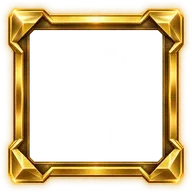
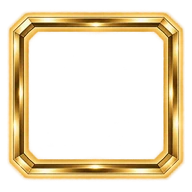
Release 0.764: ship the squared frames, and light both sides of them
0.763 published the wrong artwork. The conversion wrote an encoded WebP and
then ran that buffer back through sharp, which re-encoded it at default quality
and softened the metal and its alpha edge, so what shipped matched neither
source file. It now encodes once, straight to file.

The frames are the squared set. Their overhang is re-measured from the artwork
rather than carried over, because these trim to a different metal span:
silver 12.8%, gold 10.3%, diamond 12.5%.

The travelling highlight is now two, half a turn apart, so opposite sides of
the frame catch the light at once. It is the same single rotation, with the
band repeated in the conic gradient at minus 180 degrees, so nothing new
animates.

diff --git a/public/index.html b/public/index.html
@@ -13,26 +13,26 @@
 <meta property="og:type" content="website" />
 <meta property="og:title" content="WildStat" />
 <meta property="og:description" content="Fight monsters, collect gear, and explore new worlds in a multiplayer browser RPG." />
-<meta property="og:image" content="https://tydoskus.github.io/wildwood/assets/wildstat/wildstat-wordmark.webp?v=0.763" />
+<meta property="og:image" content="https://tydoskus.github.io/wildwood/assets/wildstat/wildstat-wordmark.webp?v=0.764" />
 <meta property="og:image:alt" content="WildStat" />
 <meta name="twitter:card" content="summary_large_image" />
-<link rel="icon" href="wildstat-favicon.ico?v=0.763" sizes="any" />
-<link rel="icon" href="assets/wildstat/wildstat-favicon-32.png?v=0.763" type="image/png" sizes="32x32" />
-<link rel="apple-touch-icon" href="assets/wildstat/wildstat-apple-touch-icon.png?v=0.763" sizes="180x180" />
-<link rel="manifest" href="manifest.webmanifest?v=0.763" />
-<script src="assets/wildstat/signin-auth-detect.js?v=0.763"></script>
-<meta data-signin-artwork content="assets/wildstat/signin/signin-progression-mobile-4k-v3.webp?v=0.763" />
-<link rel="preload" as="image" href="assets/wildstat/wildstat-wordmark.webp?v=0.763" type="image/webp" fetchpriority="high" />
+<link rel="icon" href="wildstat-favicon.ico?v=0.764" sizes="any" />
+<link rel="icon" href="assets/wildstat/wildstat-favicon-32.png?v=0.764" type="image/png" sizes="32x32" />
+<link rel="apple-touch-icon" href="assets/wildstat/wildstat-apple-touch-icon.png?v=0.764" sizes="180x180" />
+<link rel="manifest" href="manifest.webmanifest?v=0.764" />
+<script src="assets/wildstat/signin-auth-detect.js?v=0.764"></script>
+<meta data-signin-artwork content="assets/wildstat/signin/signin-progression-mobile-4k-v3.webp?v=0.764" />
+<link rel="preload" as="image" href="assets/wildstat/wildstat-wordmark.webp?v=0.764" type="image/webp" fetchpriority="high" />
 <style>
-  :root { --signin-artwork: url("signin/signin-progression-mobile-4k-v3.webp?v=0.763"); }
+  :root { --signin-artwork: url("signin/signin-progression-mobile-4k-v3.webp?v=0.764"); }
   html, body { min-height: 100vh; min-height: 100dvh; background: #000; }
   #start, #gameUpdateGate { position: fixed; top: -2px; right: 0; bottom: auto; left: 0; width: 100vw; height: calc(100vh + 30px); height: calc(100lvh + 30px); background: #000; }
 </style>
-<link rel="stylesheet" href="assets/wildstat/game.css?v=0.763" />
-<link rel="stylesheet" href="assets/wildstat/balance-editor.css?v=0.763" />
-<link rel="stylesheet" href="assets/wildstat/guild.css?v=0.763" />
+<link rel="stylesheet" href="assets/wildstat/game.css?v=0.764" />
+<link rel="stylesheet" href="assets/wildstat/balance-editor.css?v=0.764" />
+<link rel="stylesheet" href="assets/wildstat/guild.css?v=0.764" />
 <link rel="stylesheet" href="assets/wildstat/auto-farm.css" />
-<link rel="stylesheet" href="assets/wildstat/mailbox.css?v=0.763" />
+<link rel="stylesheet" href="assets/wildstat/mailbox.css?v=0.764" />
 </head>
 <body>
 <canvas id="game"></canvas>
@@ -208,7 +208,7 @@
   </button>
   <div class="minimap-meta">
     <div id="minimapPlayers" class="minimap-players">players online: 0</div>
-    <button id="minimapVersion" class="minimap-version" type="button" aria-label="Game version v0.763. Open release notes">v0.763</button>
+    <button id="minimapVersion" class="minimap-version" type="button" aria-label="Game version v0.764. Open release notes">v0.764</button>
   </div>
   <button id="enemyRespawnAdBtn" class="respawn-ad-button" type="button" aria-label="Open video reward for 2× enemy respawn speed" aria-controls="enemyRespawnAdPrompt" aria-expanded="false" aria-haspopup="dialog" hidden>
     <span class="respawn-ad-video-icon" aria-hidden="true"></span>
@@ -231,7 +231,7 @@
       <span>WORLD CHAT</span>
       <div id="topMeta">
         <div id="coopStatus">Players online: 1</div>
-        <div id="version">v0.763</div>
+        <div id="version">v0.764</div>
       </div>
       <button id="chatSizeToggle" class="chat-size-toggle" type="button" aria-label="Expand chat" aria-expanded="false"><span class="chat-size-icon" aria-hidden="true"></span></button>
     </div>
@@ -268,7 +268,7 @@
   <div id="connectionPanel" class="modal connection-modal" role="status" aria-live="polite" hidden>
     <h1 class="wildstat-wordmark-title" aria-label="WildStat">
       <span class="wildstat-wordmark-frame" aria-hidden="true">
-        <img src="assets/wildstat/wildstat-wordmark.webp?v=0.763" width="2046" height="682" alt="" fetchpriority="high" decoding="sync" />
+        <img src="assets/wildstat/wildstat-wordmark.webp?v=0.764" width="2046" height="682" alt="" fetchpriority="high" decoding="sync" />
       </span>
     </h1>
     <div class="loading-content">
@@ -285,7 +285,7 @@
   <div id="accountChoicePanel" class="modal account-choice-modal" role="dialog" aria-modal="true" aria-labelledby="accountChoiceTitle">
     <h1 id="accountChoiceTitle" class="wildstat-wordmark-title" aria-label="WildStat">
       <span class="wildstat-wordmark-frame" aria-hidden="true">
-        <img src="assets/wildstat/wildstat-wordmark.webp?v=0.763" width="2046" height="682" alt="" fetchpriority="high" decoding="sync" />
+        <img src="assets/wildstat/wildstat-wordmark.webp?v=0.764" width="2046" height="682" alt="" fetchpriority="high" decoding="sync" />
       </span>
     </h1>
     <p class="account-beta-note">This game is in beta, report bugs with /bug</p>
@@ -303,7 +303,7 @@
       <ul id="updateNoticeItems" class="signin-update-history"></ul>
     </div>
   </aside>
-  <button id="signinVersion" class="signin-version" type="button" aria-expanded="false" aria-controls="updateNotice" aria-label="WildStat version v0.763. Toggle release notes">v0.763</button>
+  <button id="signinVersion" class="signin-version" type="button" aria-expanded="false" aria-controls="updateNotice" aria-label="WildStat version v0.764. Toggle release notes">v0.764</button>
   <div id="legalGatePanel" class="modal legal-gate-modal" role="dialog" aria-modal="true" aria-labelledby="legalGateIntro" hidden>
     <p id="legalGateIntro">Choose your age</p>
     <div class="legal-age-control">
@@ -321,7 +321,7 @@
     <h1 class="wildstat-wordmark-title welcome-wordmark-title" aria-label="Welcome to WildStat">
       <span class="welcome-wordmark-prefix" aria-hidden="true">WELCOME TO</span>
       <span class="wildstat-wordmark-frame" aria-hidden="true">
-        <img src="assets/wildstat/wildstat-wordmark.webp?v=0.763" width="2046" height="682" alt="" fetchpriority="high" decoding="sync" />
+        <img src="assets/wildstat/wildstat-wordmark.webp?v=0.764" width="2046" height="682" alt="" fetchpriority="high" decoding="sync" />
       </span>
     </h1>
     <label class="onboarding-name-label" for="newPlayerNameInput">PLAYER NAME</label>
@@ -336,7 +336,7 @@
   <div class="modal game-update-modal" role="status" aria-live="assertive">
     <h1 class="wildstat-wordmark-title" aria-label="WildStat">
       <span class="wildstat-wordmark-frame" aria-hidden="true">
-        <img src="assets/wildstat/wildstat-wordmark.webp?v=0.763" width="2046" height="682" alt="" fetchpriority="high" decoding="sync" />
+        <img src="assets/wildstat/wildstat-wordmark.webp?v=0.764" width="2046" height="682" alt="" fetchpriority="high" decoding="sync" />
       </span>
     </h1>
     <div class="loading-content">
@@ -350,7 +350,7 @@
   </div>
 </div>
 
-<script src="assets/wildstat/signin-auth-shell.js?v=0.763"></script>
-<script id="wildstatCoopScript" src="assets/wildstat/coop-client.js?v=0.763" data-game-src="assets/wildstat/game.js?v=0.763"></script>
+<script src="assets/wildstat/signin-auth-shell.js?v=0.764"></script>
+<script id="wildstatCoopScript" src="assets/wildstat/coop-client.js?v=0.764" data-game-src="assets/wildstat/game.js?v=0.764"></script>
 </body>
 </html>

diff --git a/public/assets/wildstat/game.css b/public/assets/wildstat/game.css
@@ -3845,11 +3845,11 @@
    changes: overhang = (108.67% / metal span - 1) / 2. Compensate for the existing border
    without changing its box, grid track, spacing, or click target. */
 .avatar-frame-portrait { --avatar-frame-overhang: 5.5%; }
-.avatar-frame-portrait[data-avatar-frame="silver"] { --avatar-frame-overhang: 12.5%; }
-.avatar-frame-portrait[data-avatar-frame="gold"] { --avatar-frame-overhang: 12.8%; }
+.avatar-frame-portrait[data-avatar-frame="silver"] { --avatar-frame-overhang: 12.8%; }
+.avatar-frame-portrait[data-avatar-frame="gold"] { --avatar-frame-overhang: 10.3%; }
 .avatar-frame-portrait[data-avatar-frame="diamond"] { --avatar-frame-overhang: 12.5%; }
-.avatar-frame-choices [data-frame="silver"] { --avatar-frame-overhang: 12.5%; }
-.avatar-frame-choices [data-frame="gold"] { --avatar-frame-overhang: 12.8%; }
+.avatar-frame-choices [data-frame="silver"] { --avatar-frame-overhang: 12.8%; }
+.avatar-frame-choices [data-frame="gold"] { --avatar-frame-overhang: 10.3%; }
 .avatar-frame-choices [data-frame="diamond"] { --avatar-frame-overhang: 12.5%; }
 .avatar-frame-art {
   position: absolute;
@@ -3909,7 +3909,16 @@
 }
 .avatar-frame-glow-mask::before {
   content: ""; display: block; position: absolute; inset: -25%;
-  background: conic-gradient(transparent 0deg 255deg, var(--avatar-glow-color) 300deg, white 312deg 325deg, transparent 350deg 360deg);
+  /* Two highlights, half a turn apart, so opposite sides of the frame catch the
+     light at once. The second band is the first shifted back 180 degrees. */
+  background: conic-gradient(
+    transparent 0deg 75deg,
+    var(--avatar-glow-color) 120deg,
+    white 132deg 145deg,
+    transparent 170deg 255deg,
+    var(--avatar-glow-color) 300deg,
+    white 312deg 325deg,
+    transparent 350deg 360deg);
   opacity: .9;
   transform: rotate(0deg);
   animation: avatar-frame-glow-orbit 10s linear infinite;

diff --git a/src/app/changelog.ts b/src/app/changelog.ts
@@ -1,4 +1,7 @@
 export const RELEASE_NOTES: Record<string, string[]> = {
+  "0.764": [
+    "Supporter frames use the squared artwork, and two highlights now travel around opposite sides of the frame instead of one.",
+  ],
   "0.763": [
     "Supporter frames have their own artwork for each tier, and silver reads clearly against the world instead of washing out.",
     "Your supporter frame and your name in the ticker now last as long as the membership you paid for. The server keeps them current on its own, so they no longer disappear on a day you do not log in, and a cancelled membership keeps its frame until the period it bought runs out.",
@@ -2162,6 +2165,7 @@ const RELEASE_DATES: Record<string, string> = {
 };
 
 export const RELEASE_DAYS: Record<string, string> = {
+  "0.764": "2026-09-20",
   "0.763": "2026-09-20",
   "0.762": "2026-09-20",
   "0.761": "2026-09-20",

diff --git a/src/game/runtime/game-settings.ts b/src/game/runtime/game-settings.ts
@@ -1,4 +1,4 @@
-export const GAME_VERSION = "0.763";
+export const GAME_VERSION = "0.764";
 export const ATTACK_RANGE_VISIBLE_KEY = "wildwood-attack-range-visible-v1";
 export const SCREEN_SHAKE_ENABLED_KEY = "wildwood-screen-shake-enabled-v1";
 export const LOW_PERFORMANCE_MODE_KEY = "wildwood-low-performance-mode-v1";

diff --git a/public/assets/wildstat/avatar-frames/README.md b/public/assets/wildstat/avatar-frames/README.md
@@ -2,13 +2,13 @@
 
 `patreon_silver.webp`, `patreon_gold.webp` and `patreon_diamond.webp` are the
 three supporter frames, resized to 192x192 from the 1254x1254 sources in
-`art-source/2D Avatar Frame/patreon_*_v2.png`. Each tier has its own artwork;
+`art-source/2D Avatar Frame/patreon_*_v2.png` (the square set). Each tier has its own artwork;
 silver used to be the gold frame under a grayscale filter, which is gone.
 
 The sources carry a soft glow baked around the metal, and how much differs per
 tier, so the artwork is **not** trimmed. Instead `--avatar-frame-overhang` in
 `game.css` is set per tier to put the metal where the retired single frame's
-was: silver 12.7%, gold 10.2%, diamond 12.5%. Re-measure it if the art changes.
+was: silver 12.8%, gold 10.3%, diamond 12.5%. Re-measure it if the art changes.
 
 Silver carries a contrast boost and a dark drop-shadow rim. Chrome alone washed
 out against the world's green and the window blue. The tint stays neutral so
@@ -20,3 +20,7 @@ and mask must stay the same shape and alignment.
 
 `supporter.webp` is the retired single frame, kept so a cached client that still
 requests it does not 404.
+
+Encode once, straight to file. Running an already-encoded WebP back through
+sharp re-encodes it at default quality and visibly softens the metal gradients
+and the alpha edge.
